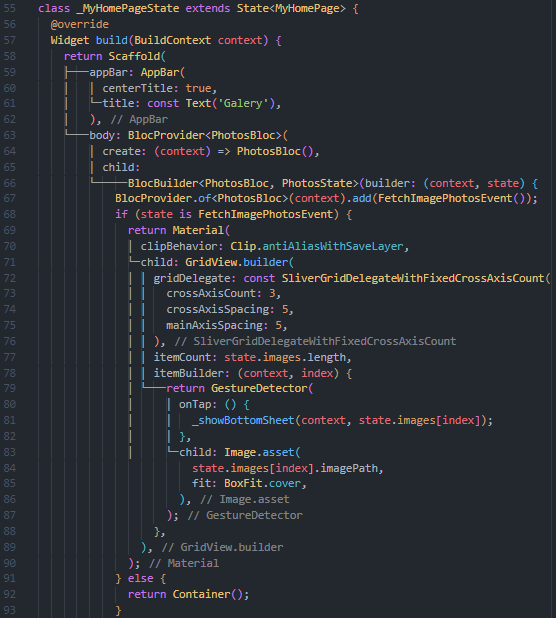
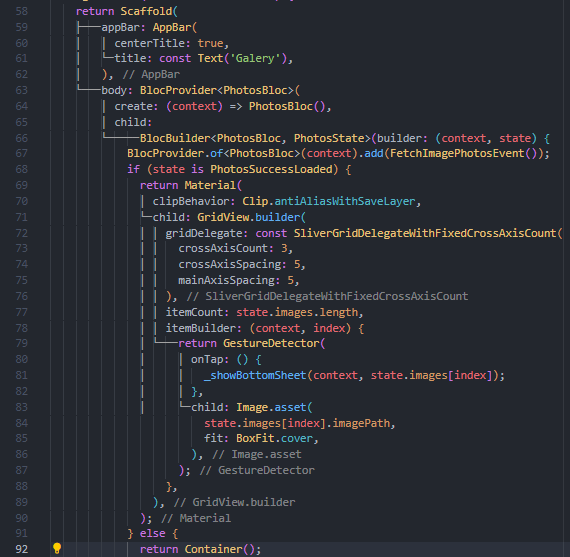
revisi tugas

diff --git a/21_Flutter State Management (BLoC)/praktikum/source code/lib/main.dart b/21_Flutter State Management (BLoC)/praktikum/source code/lib/main.dart
@@ -65,7 +65,7 @@ class _MyHomePageState extends State<MyHomePage> {
           child:
               BlocBuilder<PhotosBloc, PhotosState>(builder: (context, state) {
             BlocProvider.of<PhotosBloc>(context).add(FetchImagePhotosEvent());
-            if (state is FetchImagePhotosEvent) {
+            if (state is PhotosSuccessLoaded) {
               return Material(
                 clipBehavior: Clip.antiAliasWithSaveLayer,
                 child: GridView.builder(

diff --git a/21_Flutter State Management (BLoC)/praktikum/source code/lib/bloc/photos_state.dart b/21_Flutter State Management (BLoC)/praktikum/source code/lib/bloc/photos_state.dart
@@ -3,8 +3,6 @@ part of 'photos_bloc.dart';
 
 abstract class PhotosState extends Equatable {
   const PhotosState();
-
-  get images => listImage;
 }
 
 class PhotosInitial extends PhotosState {
@@ -13,7 +11,6 @@ class PhotosInitial extends PhotosState {
 }
 
 class PhotosSuccessLoaded extends PhotosState {
-  @override
   final List<ImageModel> images;
 
   const PhotosSuccessLoaded({required this.images});
